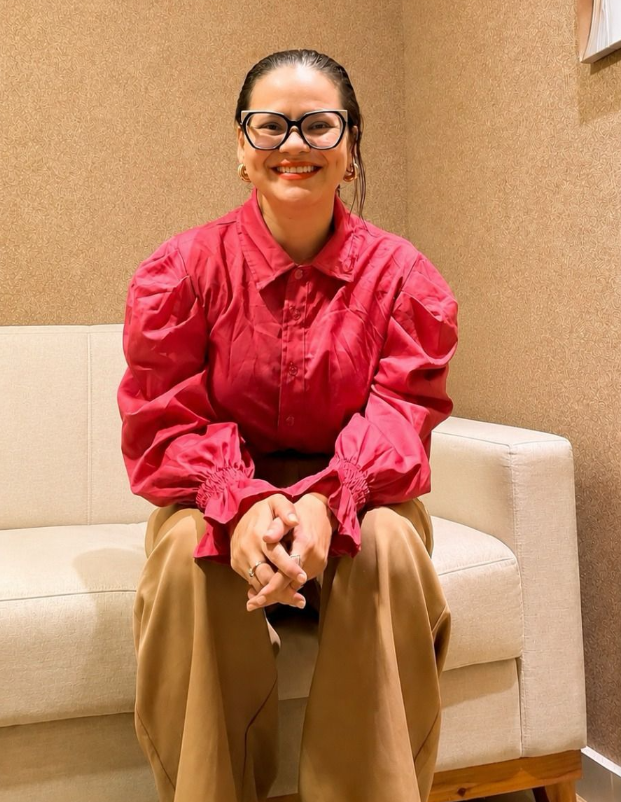
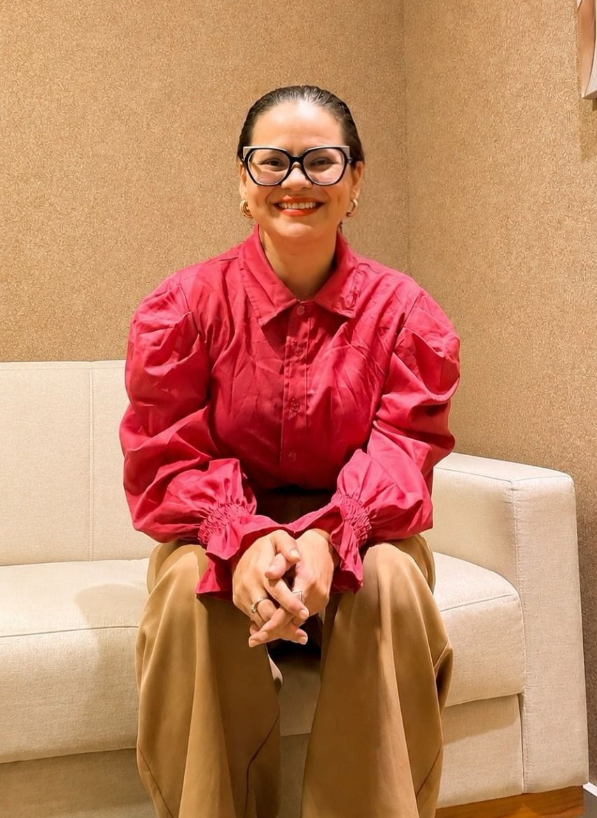
chore(assets): add and update Karolft image assets

diff --git a/index.html b/index.html
@@ -2539,7 +2539,7 @@
       <!-- Lado da Foto -->
       <div class="sobre-image-wrap reveal">
         <div class="anim-rotate-oval sobre-decor-oval"></div>
-        <img src="./sobre.png" alt="Psicóloga Karol Moreno em atendimento de psicoterapia" width="621" height="802" loading="lazy" class="sobre-image">
+        <img src="./sobre.png" alt="Psicóloga Karol Moreno em atendimento de psicoterapia" width="597" height="818" loading="lazy" class="sobre-image">
       </div>
 
       <!-- Cartão de Vidro Flutuante -->